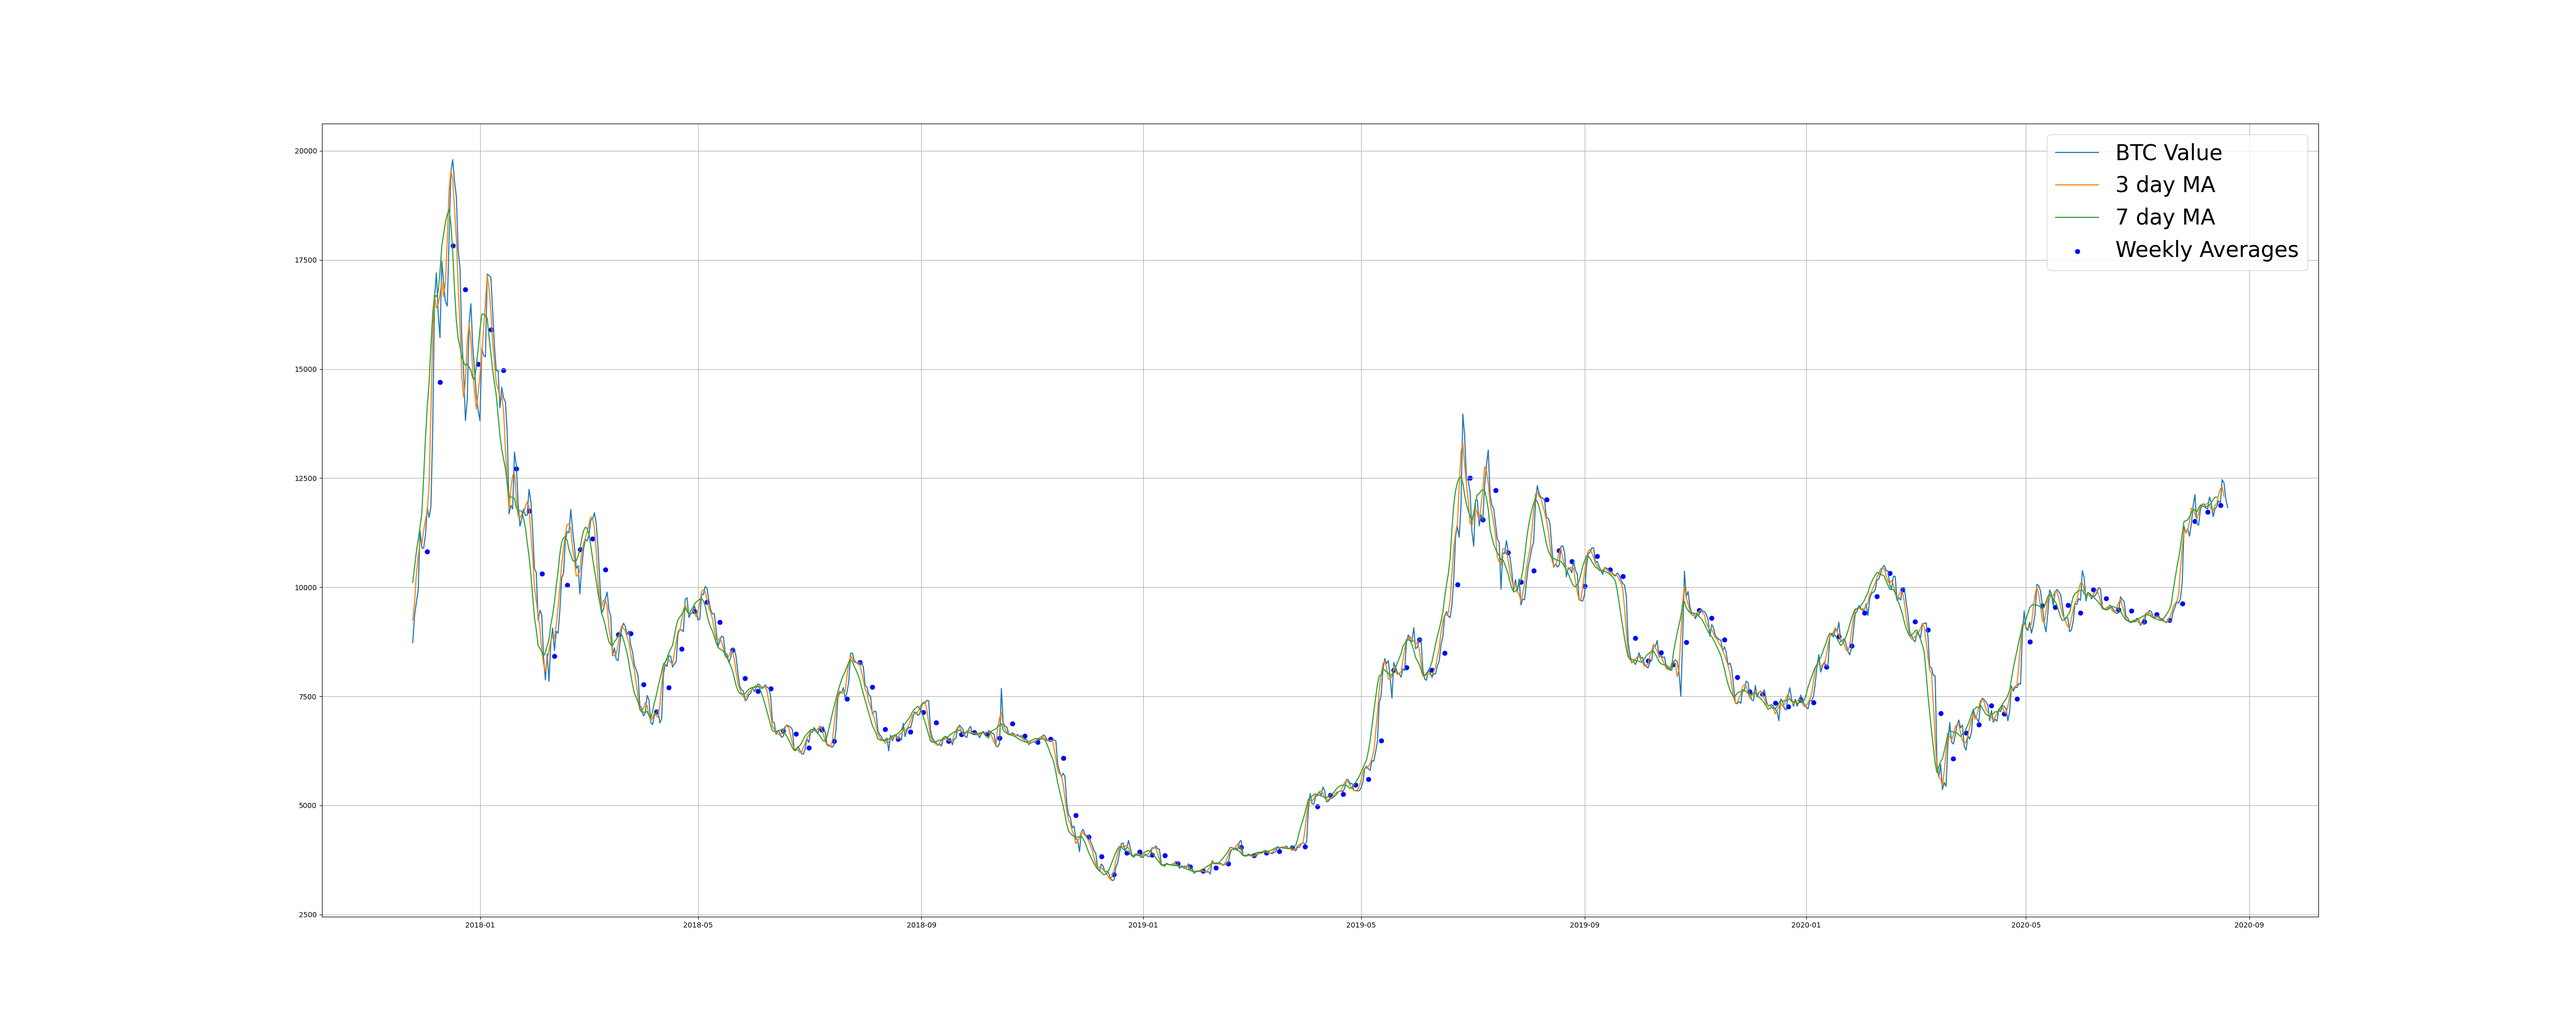
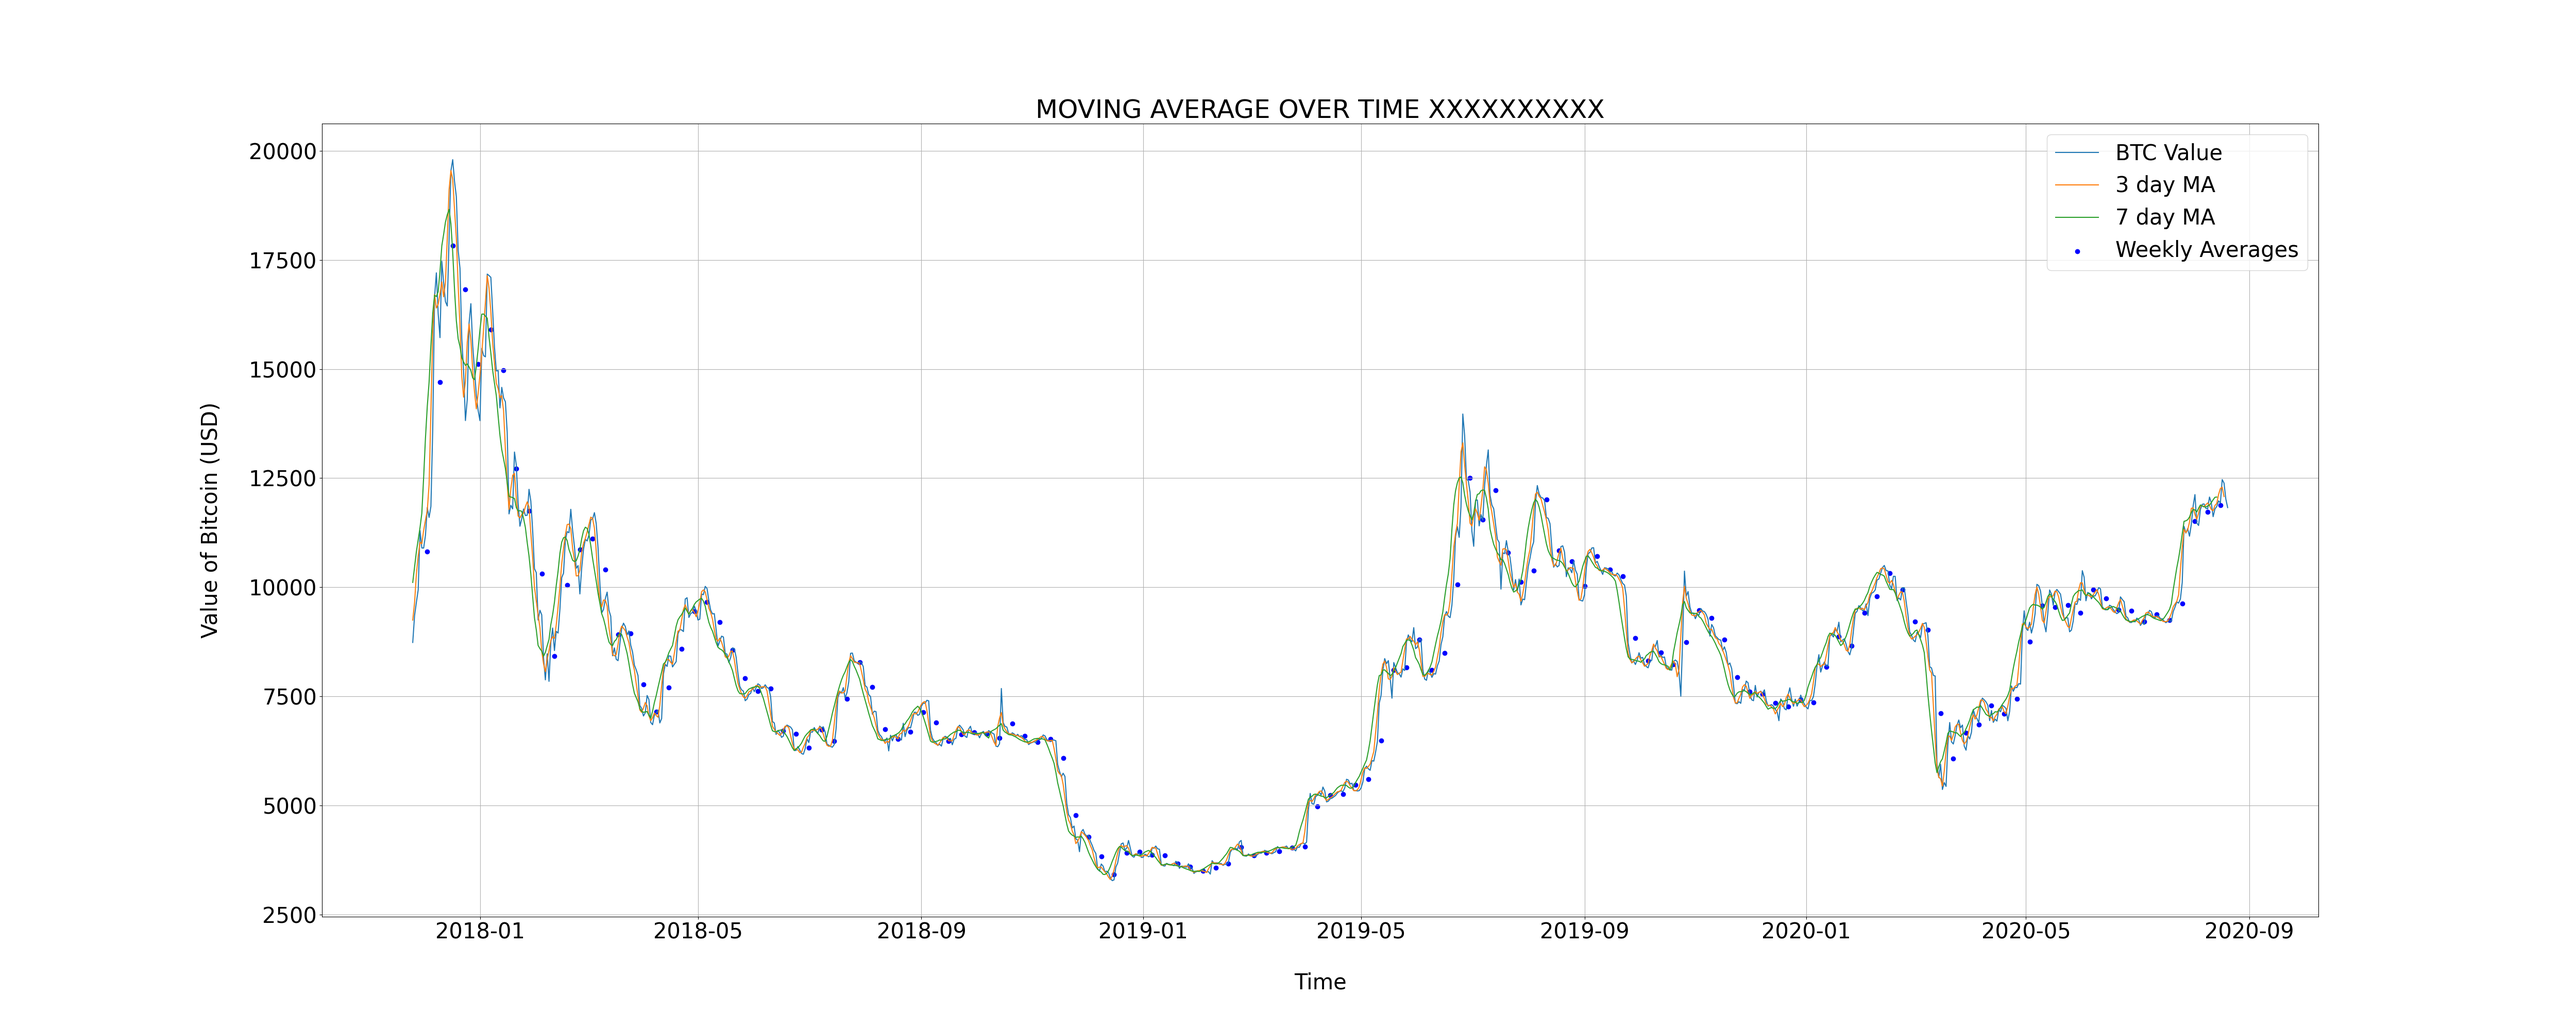
Lable placing + sizing

diff --git a/Alpha Vantage API/pull.py b/Alpha Vantage API/pull.py
@@ -73,7 +73,7 @@ df_close['weekly_average'] = r
 
 #print(ticker)
 #print(df_close.columns)
-print(df_close[:20])
+print(df_close.tail())
 
 
 
@@ -88,14 +88,34 @@ plt.plot(df_close['MA_7'], label ='MA_7')
 plt.legend(loc=2)
 plt.savefig('output.png')
 '''
-plt.figure(figsize=(50,20))
+
+#defining plot aesthetics
+plt.rcParams.update({'font.size': 30})
+figPres = plt.figure(figsize=(50,20))
+axPres  = figPres.add_subplot(111)
+axPres.yaxis.set_label_coords(-0.05,0.5)
+axPres.xaxis.set_label_coords(0.5,-0.07)
+
+
+
+
+
+
+
 plt.grid(True)
 plt.legend(loc=2)
 plt.scatter(  df_close.index,df_close['weekly_average'],  c='blue', label ='Weekly Averages')
 plt.plot( df_close.index,df_close['BTC_Daily_Close_USD'], label ='BTC Value')
 plt.plot( df_close.index,df_close['MA_3'], label ='3 day MA')
 plt.plot( df_close.index, df_close['MA_7'], label ='7 day MA' )
+plt.title('MOVING AVERAGE OVER TIME XXXXXXXXXX', loc='center',   )
 plt.legend(  prop={'size': 30})
+plt.ylabel('Value of Bitcoin (USD)')
+plt.xlabel('Time')
+
+
+
+
 plt.savefig('output.png')
 
 
